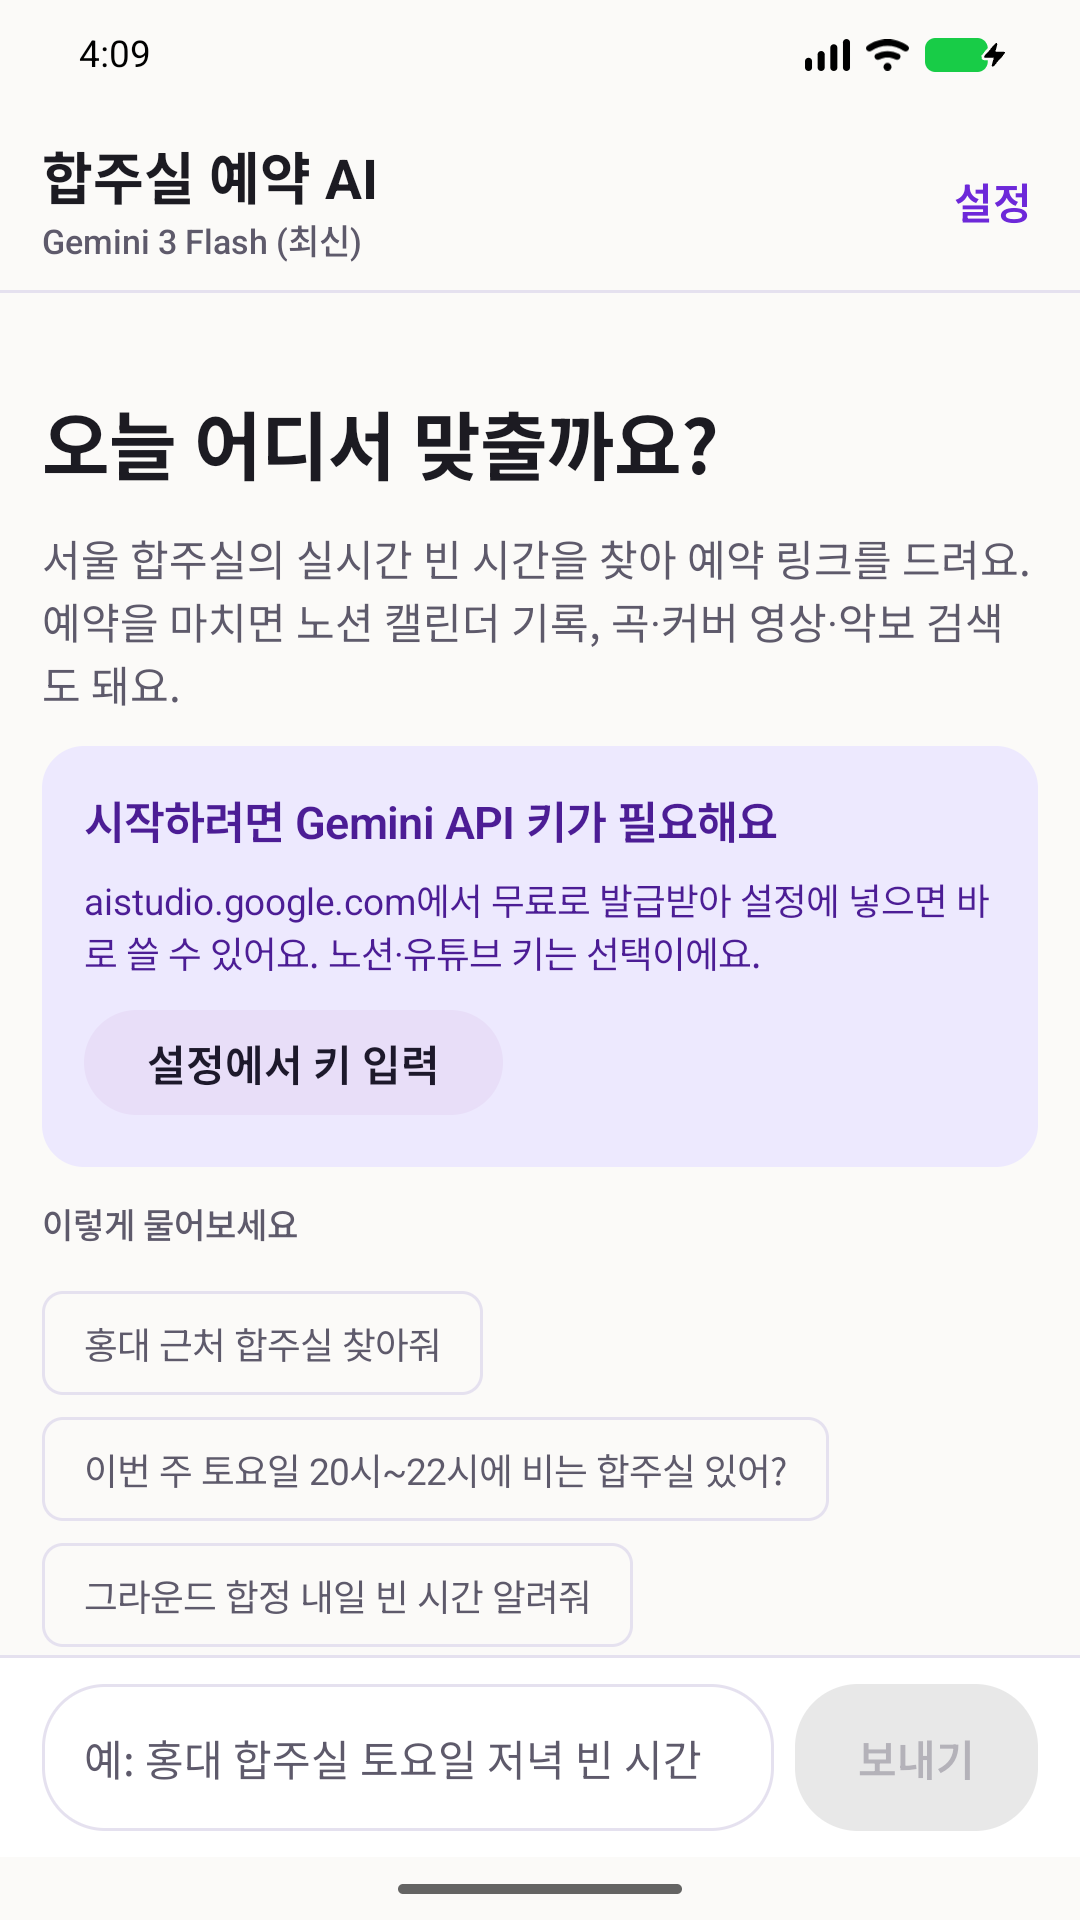
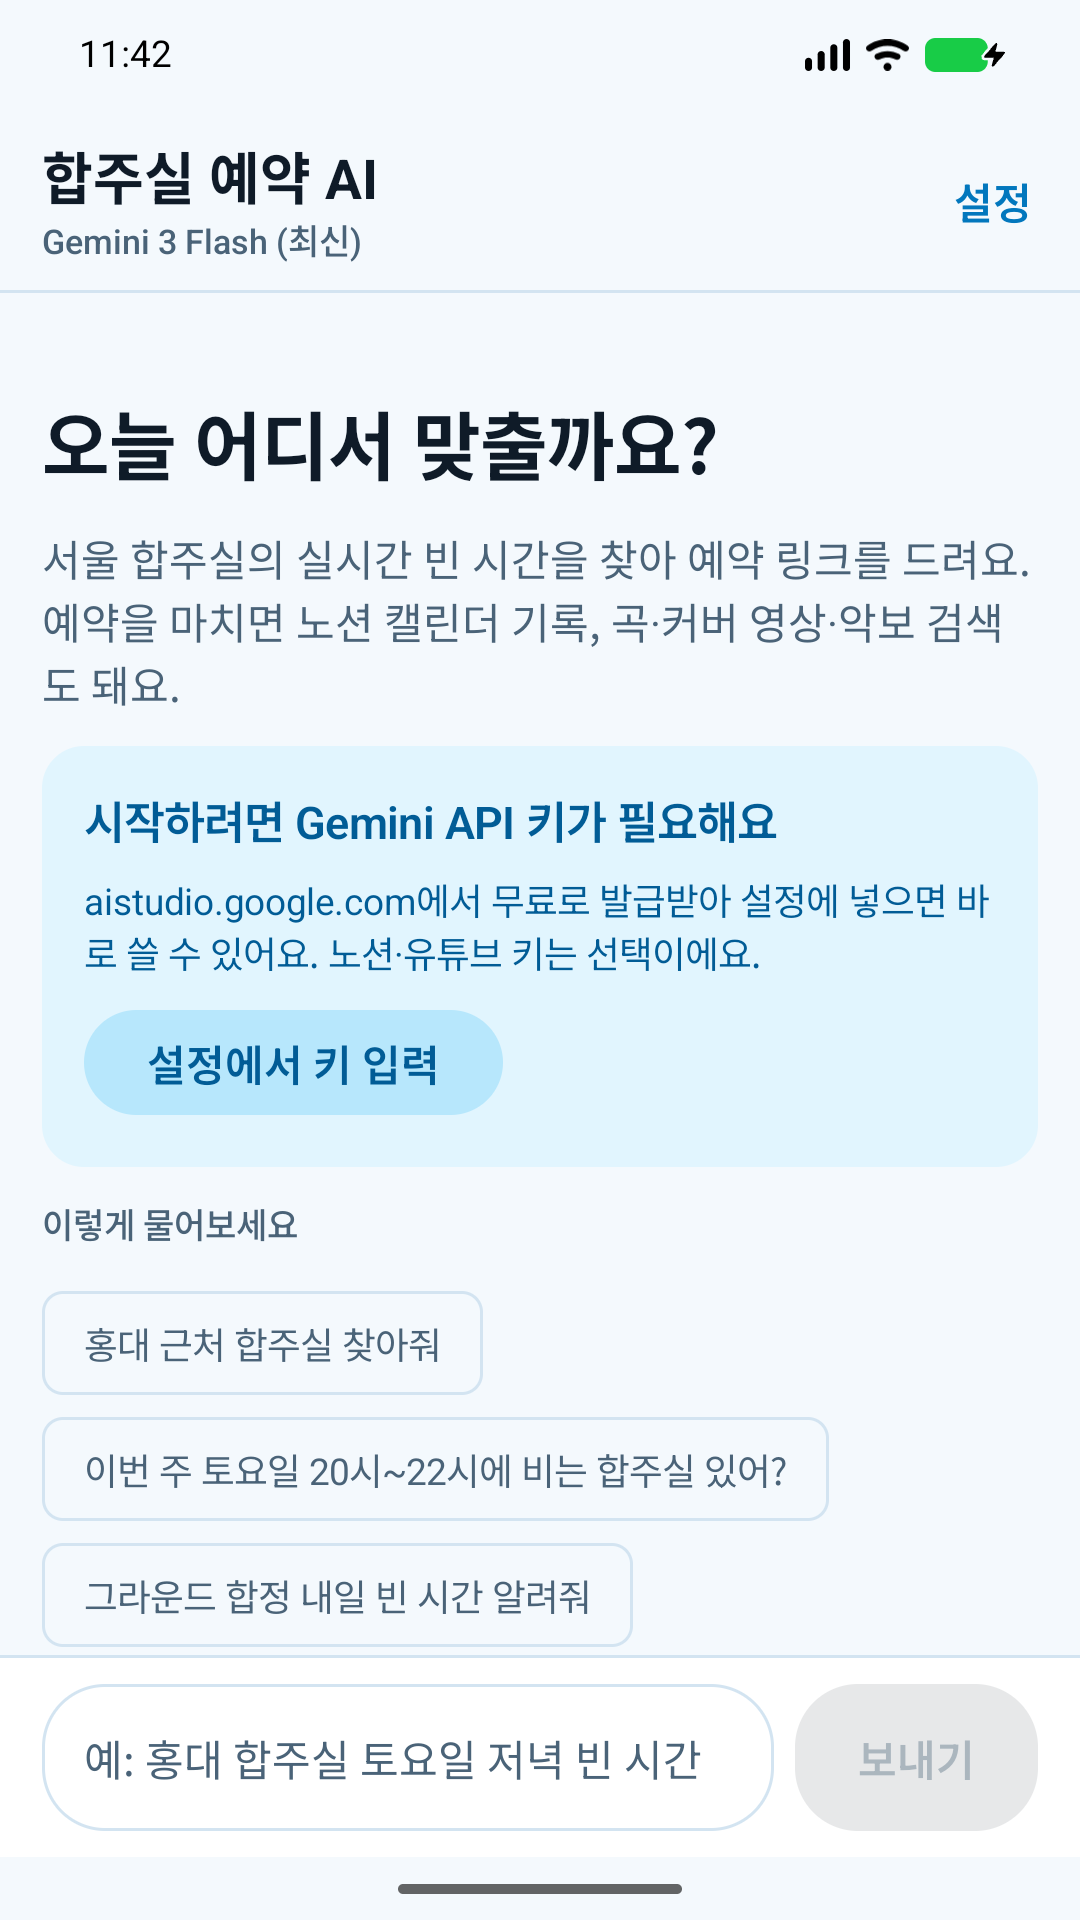
feat: 에네 콘셉트 리테마 + 잭 단자 모티프 아이콘
- 팔레트를 시안 블루/딥 네이비로 전면 교체(라이트·다크, AA 대비 유지)
- secondaryContainer까지 정의해 M3 기본 보라 유출 차단
- 런처 아이콘: 오디오 잭 단면 + 그릴 슬릿 모티프(어댑티브 벡터), 스토어 그래픽·스크린샷 재생성
- versionCode 5

diff --git a/app/src/main/java/com/enezzang/yatte/ui/theme/Theme.kt b/app/src/main/java/com/enezzang/yatte/ui/theme/Theme.kt
@@ -12,12 +12,15 @@ import androidx.compose.ui.graphics.Color
 import androidx.compose.ui.unit.dp
 
 private val LightColors = lightColorScheme(
-    primary = Violet700,
+    primary = Cyan800,
     onPrimary = Color.White,
-    primaryContainer = Violet200,
-    onPrimaryContainer = Violet900,
-    secondary = Violet800,
+    primaryContainer = Cyan100,
+    onPrimaryContainer = Cyan900,
+    secondary = Cyan900,
     onSecondary = Color.White,
+    // 세그먼트 선택·FilledTonalButton이 이 슬롯을 쓴다. 안 주면 M3 기본 연보라가 샌다.
+    secondaryContainer = Cyan200,
+    onSecondaryContainer = Cyan900,
     background = Bg,
     onBackground = Ink,
     surface = Bg,
@@ -25,7 +28,7 @@ private val LightColors = lightColorScheme(
     surfaceVariant = SurfaceDim,
     onSurfaceVariant = MutedOnLight,
     // 드롭다운·다이얼로그가 색을 가져가는 계열. 비워 두면 M3가 primary에서 파생한
-    // 보라끼 도는 회색을 깔아 지면이 탁해진다.
+    // 푸른끼 도는 회색을 제멋대로 깔아 지면이 탁해진다.
     surfaceContainerLowest = SurfaceLight,
     surfaceContainerLow = SurfaceLight,
     surfaceContainer = SurfaceLight,
@@ -42,12 +45,14 @@ private val LightColors = lightColorScheme(
 )
 
 private val DarkColors = darkColorScheme(
-    primary = Violet300,
-    onPrimary = Violet950,
-    primaryContainer = Violet900,
-    onPrimaryContainer = Violet200,
-    secondary = Violet400,
-    onSecondary = Violet950,
+    primary = Cyan400,
+    onPrimary = Navy950,
+    primaryContainer = Cyan900,
+    onPrimaryContainer = Cyan100,
+    secondary = Cyan300,
+    onSecondary = Navy950,
+    secondaryContainer = Color(0xFF1B4A66),
+    onSecondaryContainer = Cyan100,
     background = BgDark,
     onBackground = InkDark,
     surface = BgDark,
@@ -76,7 +81,7 @@ private val DarkColors = darkColorScheme(
 data class EnezzangYatteTokens(
     val hairline: Color,
     val muted: Color,
-    /** 내(사용자) 말풍선 — 액센트 지면. */
+    /** 내(사용자) 말풍선 — 에네 블루 지면. */
     val bubbleUser: Color,
     val onBubbleUser: Color,
     /** 에이전트 말풍선 — 카드 지면. */
@@ -92,7 +97,7 @@ data class EnezzangYatteTokens(
 private val LightTokens = EnezzangYatteTokens(
     hairline = HairlineLight,
     muted = MutedOnLight,
-    bubbleUser = Violet700,
+    bubbleUser = Cyan800,
     onBubbleUser = Color.White,
     bubbleAssistant = SurfaceLight,
     onBubbleAssistant = Ink,
@@ -104,8 +109,8 @@ private val LightTokens = EnezzangYatteTokens(
 private val DarkTokens = EnezzangYatteTokens(
     hairline = HairlineDark,
     muted = MutedOnDark,
-    bubbleUser = Violet800,
-    onBubbleUser = Violet100,
+    bubbleUser = BubbleUserDark,
+    onBubbleUser = OnBubbleUserDark,
     bubbleAssistant = SurfaceDark,
     onBubbleAssistant = InkDark,
     traceOk = OkGreenDark,
@@ -125,7 +130,7 @@ object EnezzangYatteTheme {
 
 /**
  * 다이내믹 컬러는 쓰지 않는다 — 기기 배경화면에서 색을 뽑으면
- * 보라 단일 액센트 위에 세운 말풍선 대비가 무너진다.
+ * 에네 시안 단일 액센트 위에 세운 말풍선 대비가 무너진다.
  */
 @Composable
 fun Enezzang_yatteTheme(

diff --git a/app/src/main/java/com/enezzang/yatte/ui/theme/Color.kt b/app/src/main/java/com/enezzang/yatte/ui/theme/Color.kt
@@ -3,38 +3,46 @@ package com.enezzang.yatte.ui.theme
 import androidx.compose.ui.graphics.Color
 
 /**
- * 합주실 앱 팔레트. subculture-ground 관리 화면의 보라(#7c3aed) 계열을 뿌리로 하되,
- * 본문 글씨가 올라가는 자리는 한 단계 어두운 700(#6d28d9)을 기본으로 쓴다 —
- * 흰 글씨 대비가 원색은 4.2:1로 AA(4.5:1)에 아슬아슬하고 700은 6.2:1로 여유 있다.
+ * 에네(Ene) 콘셉트 팔레트 — 밝은 시안(하늘빛 머리칼)과 짙은 네이비(화면 속 디지털 세계).
+ * 캐릭터 연상은 **색과 분위기로만** 한다(아트·명칭 사용 금지 — 스토어 IP 정책).
+ *
+ * 다크가 이 앱의 본진이다("화면 안에 사는" 콘셉트) — 라이트도 지원하되 쿨톤으로 맞춘다.
+ * 본문 글씨가 올라가는 자리는 대비를 재서 고른다: 라이트 primary는 원색 시안이 아니라
+ * 한 단계 어두운 #0277BD(흰 글씨 대비 5.0:1, AA 통과)를 쓴다.
  * 색을 바꾸려면 여기만 고친다. 화면 파일에 hex를 직접 쓰지 않는다.
  */
 
-// — 라이트 지면 —
-val Bg = Color(0xFFFBFAF8)
+// — 라이트 지면 (쿨톤) —
+val Bg = Color(0xFFF4F9FD)
 val SurfaceLight = Color(0xFFFFFFFF)
-val SurfaceDim = Color(0xFFF1EEF8)
-val Ink = Color(0xFF1C1B22)
-val MutedOnLight = Color(0xFF5E5A6B) // Bg 대비 5.9:1 — 보조 문구도 AA를 지킨다
-val HairlineLight = Color(0xFFE5E1EF)
+val SurfaceDim = Color(0xFFE2EEF8)
+val Ink = Color(0xFF0F1B28)
+val MutedOnLight = Color(0xFF4A6378) // Bg 대비 ≈5.8:1 — 보조 문구도 AA
+val HairlineLight = Color(0xFFD3E4F1)
 
-// — 보라 램프 —
-val Violet100 = Color(0xFFF3EFFE)
-val Violet200 = Color(0xFFEDE9FE)
-val Violet300 = Color(0xFFC4B5FD)
-val Violet400 = Color(0xFFA78BFA)
-val Violet600 = Color(0xFF7C3AED)
-val Violet700 = Color(0xFF6D28D9)
-val Violet800 = Color(0xFF5B21B6)
-val Violet900 = Color(0xFF4C1D95)
-val Violet950 = Color(0xFF2E1065)
+// — 에네 시안 램프 —
+val Cyan100 = Color(0xFFE1F5FE)
+val Cyan200 = Color(0xFFB7E7FC)
+val Cyan300 = Color(0xFF7FD4F9)
+val Cyan400 = Color(0xFF53D1FF) // 에네 하이라이트 — 다크 primary
+val Cyan600 = Color(0xFF0A9BDD)
+val Cyan700 = Color(0xFF0288D1)
+val Cyan800 = Color(0xFF0277BD) // 라이트 primary (흰 글씨 AA)
+val Cyan900 = Color(0xFF015C96)
+val Navy950 = Color(0xFF002B44) // 밝은 시안 위에 올리는 글씨
 
-// — 다크 지면 —
-val BgDark = Color(0xFF141218)
-val SurfaceDark = Color(0xFF1E1B26)
-val SurfaceDimDark = Color(0xFF262230)
-val InkDark = Color(0xFFECEAF2)
-val MutedOnDark = Color(0xFFA7A2B5)
-val HairlineDark = Color(0xFF363040)
+// — 다크 지면 (디지털 네이비) —
+val BgDark = Color(0xFF0A141F)
+val SurfaceDark = Color(0xFF101F2E)
+val SurfaceDimDark = Color(0xFF17293C)
+val InkDark = Color(0xFFE4F2FB)
+val MutedOnDark = Color(0xFF8FB0C6)
+val HairlineDark = Color(0xFF234258)
+
+// — 말풍선 전용 —
+/** 다크에서 내 말풍선 — 네이비 속에서 빛나는 시안 블루 카드. */
+val BubbleUserDark = Color(0xFF0E5B88)
+val OnBubbleUserDark = Color(0xFFDFF4FB)
 
 // — 상태 —
 val ErrorText = Color(0xFFB3261E)

diff --git a/play/make-graphics.py b/play/make-graphics.py
@@ -5,39 +5,132 @@
   icon-512.png        512x512 32-bit PNG (앱 아이콘, 어댑티브 아이콘과 같은 디자인)
   feature-1024x500.png 1024x500 알파 없는 PNG (피처 그래픽)
 
+디자인: 에네 볼 단자 모티프 — 시안 오디오 잭 탭 + 네이비 그릴 슬릿
+(ic_launcher_foreground.xml과 같은 좌표를 그대로 그린다)
+
 재생성: python3 make-graphics.py
 """
+import math
 import os
+import re
 from PIL import Image, ImageDraw, ImageFont
 
 HERE = os.path.dirname(os.path.abspath(__file__))
 
-BG = (0x6D, 0x28, 0xD9)        # #6D28D9
-BG_DARK = (0x5B, 0x21, 0xB6)   # #5B21B6
-GRAD_END = (0x4C, 0x1D, 0x95)  # #4C1D95
+BG = (0x0A, 0x14, 0x1F)        # #0A141F 네이비
+BG_DARK = (0x07, 0x10, 0x19)   # #071019 더 어두운 네이비(대각 절반 / 그라데이션 끝)
+CYAN = (0x53, 0xD1, 0xFF)      # #53D1FF 에네 시안
 WHITE = (255, 255, 255)
 
 SS = 4  # 안티앨리어싱용 슈퍼샘플 배율
 
+# ic_launcher_foreground.xml(108 뷰포트)과 동일한 패스. 색, pathData 순.
+JACK_PATHS = [
+    # 탭 몸체 (오디오 잭 단면), 시안
+    ("#53D1FF", "M40,30 L68,30 Q74,30 72.62,35.84 L65.92,64.11 Q65,68 61,68 "
+                "L47,68 Q43,68 42.08,64.11 L35.38,35.84 Q34,30 40,30 Z"),
+    # 그릴 슬릿 1 (네이비로 파냄)
+    ("#0A141F", "M44,39.5 L64,39.5 A2.5,2.5 0 0 1 64,44.5 L44,44.5 A2.5,2.5 0 0 1 44,39.5 Z"),
+    # 그릴 슬릿 2 (몸체 테이퍼를 따라 더 좁게)
+    ("#0A141F", "M46,49.5 L62,49.5 A2.5,2.5 0 0 1 62,54.5 L46,54.5 A2.5,2.5 0 0 1 46,49.5 Z"),
+    # 커넥터 핀, 짙은 파랑
+    ("#29B6F6", "M49,68 L59,68 L59,74 Q59,77 56,77 L52,77 Q49,77 49,74 Z"),
+    # 모서리 하이라이트
+    ("#E1F5FE", "M41.5,33.5 L45.5,33.5 A1.5,1.5 0 0 1 45.5,36.5 L41.5,36.5 A1.5,1.5 0 0 1 41.5,33.5 Z"),
+]
 
-def draw_notes(draw, scale, ox=0.0, oy=0.0, fill=WHITE):
-    """ic_launcher_foreground.xml(108 뷰포트)의 8분음표 2개+빔을 그린다.
 
-    scale: 108 뷰포트 단위 1 → 픽셀 수. ox/oy: 픽셀 오프셋.
-    """
-    def pt(x, y):
-        return (x * scale + ox, y * scale + oy)
+def _arc_points(p0, p1, rx, ry, fa, fs, n=32):
+    """W3C 끝점→중심 타원 호 변환(x-rotation 0), n등분 샘플."""
+    x1, y1 = p0
+    x2, y2 = p1
+    dx = (x1 - x2) / 2.0
+    dy = (y1 - y2) / 2.0
+    rx, ry = abs(rx), abs(ry)
+    lam = (dx * dx) / (rx * rx) + (dy * dy) / (ry * ry)
+    if lam > 1:
+        s = math.sqrt(lam)
+        rx *= s
+        ry *= s
+    num = rx * rx * ry * ry - rx * rx * dy * dy - ry * ry * dx * dx
+    den = rx * rx * dy * dy + ry * ry * dx * dx
+    co = math.sqrt(max(0.0, num / den))
+    if fa == fs:
+        co = -co
+    cxp = co * rx * dy / ry
+    cyp = -co * ry * dx / rx
+    cx = cxp + (x1 + x2) / 2.0
+    cy = cyp + (y1 + y2) / 2.0
 
-    # 왼쪽 음표 머리: 중심 (44,70) 반지름 6.5
-    draw.ellipse([pt(44 - 6.5, 70 - 6.5), pt(44 + 6.5, 70 + 6.5)], fill=fill)
-    # 왼쪽 기둥
-    draw.polygon([pt(48.6, 42), pt(51.2, 42), pt(51.2, 70), pt(48.6, 70)], fill=fill)
-    # 오른쪽 음표 머리: 중심 (64,66) 반지름 6.5
-    draw.ellipse([pt(64 - 6.5, 66 - 6.5), pt(64 + 6.5, 66 + 6.5)], fill=fill)
-    # 오른쪽 기둥
-    draw.polygon([pt(68.6, 38), pt(71.2, 38), pt(71.2, 66), pt(68.6, 66)], fill=fill)
-    # 빔
-    draw.polygon([pt(48.6, 42), pt(71.2, 38), pt(71.2, 45.5), pt(48.6, 49.5)], fill=fill)
+    def ang(ux, uy, vx, vy):
+        d = math.hypot(ux, uy) * math.hypot(vx, vy)
+        c = max(-1.0, min(1.0, (ux * vx + uy * vy) / d))
+        a = math.acos(c)
+        if ux * vy - uy * vx < 0:
+            a = -a
+        return a
+
+    ux, uy = (dx - cxp) / rx, (dy - cyp) / ry
+    vx, vy = (-dx - cxp) / rx, (-dy - cyp) / ry
+    th1 = ang(1.0, 0.0, ux, uy)
+    dth = ang(ux, uy, vx, vy)
+    if fs == 0 and dth > 0:
+        dth -= 2 * math.pi
+    if fs == 1 and dth < 0:
+        dth += 2 * math.pi
+    return [
+        (cx + rx * math.cos(th1 + dth * k / n), cy + ry * math.sin(th1 + dth * k / n))
+        for k in range(1, n + 1)
+    ]
+
+
+def _parse_path(d):
+    """M/L/Q/A/Z pathData → 폴리곤 점 목록 (Q는 24분할, A는 호 샘플)."""
+    tokens = re.findall(r"[MLQAZ]|-?\d*\.?\d+", d)
+    i = 0
+    pts = []
+    cur = None
+
+    def num():
+        nonlocal i
+        v = float(tokens[i])
+        i += 1
+        return v
+
+    while i < len(tokens):
+        t = tokens[i]
+        i += 1
+        if t in ("M", "L"):
+            cur = (num(), num())
+            pts.append(cur)
+        elif t == "Q":
+            cx, cy = num(), num()
+            x, y = num(), num()
+            x0, y0 = cur
+            for k in range(1, 25):
+                u = k / 24.0
+                pts.append((
+                    (1 - u) ** 2 * x0 + 2 * (1 - u) * u * cx + u ** 2 * x,
+                    (1 - u) ** 2 * y0 + 2 * (1 - u) * u * cy + u ** 2 * y,
+                ))
+            cur = (x, y)
+        elif t == "A":
+            rx, ry = num(), num()
+            _rot = num()
+            fa, fs = int(num()), int(num())
+            x, y = num(), num()
+            pts.extend(_arc_points(cur, (x, y), rx, ry, fa, fs))
+            cur = (x, y)
+        elif t == "Z":
+            pass
+    return pts
+
+
+def draw_jack(draw, scale, ox=0.0, oy=0.0):
+    """잭 탭 모티프를 그린다. scale: 108 뷰포트 단위 1 → 픽셀 수. ox/oy: 픽셀 오프셋."""
+    for color, d in JACK_PATHS:
+        poly = [(x * scale + ox, y * scale + oy) for x, y in _parse_path(d)]
+        draw.polygon(poly, fill=color)
 
 
 def make_icon(path):
@@ -48,7 +141,7 @@ def make_icon(path):
     # 우하단 대각선 절반 (좌상→우하 대각선 아래쪽)
     draw.polygon([(s, 0), (s, s), (0, s)], fill=BG_DARK + (255,))
     # 전경: 108 캔버스 → 512 스케일
-    draw_notes(draw, scale=s / 108.0)
+    draw_jack(draw, scale=s / 108.0)
     img = img.resize((size, size), Image.LANCZOS)
     img.save(path, "PNG")
 
@@ -76,27 +169,24 @@ def load_korean_font(size):
 def make_feature(path):
     w, h = 1024, 500
     img = Image.new("RGB", (w, h))
-    # 가로 그라데이션 #6D28D9 → #4C1D95
+    # 가로 그라데이션 #0A141F → #071019
     for x in range(w):
         t = x / (w - 1)
-        c = tuple(round(BG[i] + (GRAD_END[i] - BG[i]) * t) for i in range(3))
+        c = tuple(round(BG[i] + (BG_DARK[i] - BG[i]) * t) for i in range(3))
         ImageDraw.Draw(img).line([(x, 0), (x, h)], fill=c)
 
-    # 우측 음표 모티프 (슈퍼샘플 레이어에 반투명 흰색으로)
+    # 우측 잭 모티프 (슈퍼샘플 레이어에 크게)
     ov = Image.new("RGBA", (w * SS, h * SS), (0, 0, 0, 0))
     od = ImageDraw.Draw(ov)
-    note_h = 420 * SS           # 음표 영역 높이(px)
-    scale = note_h / 108.0
-    ox = w * SS - 108 * scale * 0.92   # 오른쪽에 붙이되 살짝 여유
-    oy = (h * SS - note_h) / 2
-    draw_notes(od, scale=scale, ox=ox, oy=oy, fill=(255, 255, 255, 56))
-    # 작은 음표 하나 더
-    s2 = note_h * 0.45 / 108.0
-    draw_notes(od, scale=s2, ox=ox - 150 * SS, oy=oy + 40 * SS, fill=(255, 255, 255, 36))
+    mark_h = 440 * SS           # 모티프 영역 높이(px)
+    scale = mark_h / 108.0
+    ox = w * SS - 108 * scale * 0.94   # 오른쪽에 붙이되 살짝 여유
+    oy = (h * SS - mark_h) / 2
+    draw_jack(od, scale=scale, ox=ox, oy=oy)
     ov = ov.resize((w, h), Image.LANCZOS)
     img = Image.alpha_composite(img.convert("RGBA"), ov).convert("RGB")
 
-    # 텍스트: 좌측 여백 64px, 수직 중앙
+    # 텍스트: 좌측 여백 64px, 수직 중앙 — 흰색 제목 + 시안 부제
     draw = ImageDraw.Draw(img)
     title_font = load_korean_font(84)
     sub_font = load_korean_font(36)
@@ -111,7 +201,7 @@ def make_feature(path):
     top = (h - total) / 2
     draw.text((margin, top - tb[1]), title, font=title_font, fill=WHITE)
     draw.text((margin, top + (tb[3] - tb[1]) + gap - sb[1]), sub, font=sub_font,
-              fill=(237, 233, 254))  # 살짝 연한 흰색(#EDE9FE)
+              fill=CYAN)  # 에네 시안 #53D1FF
 
     img.save(path, "PNG")
 
